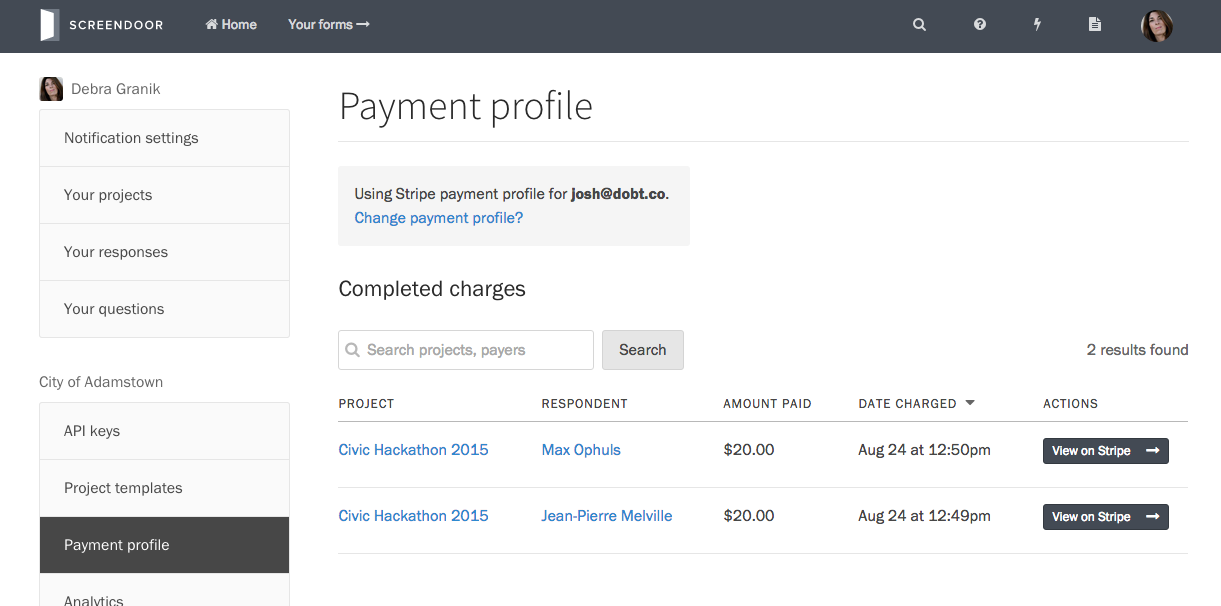
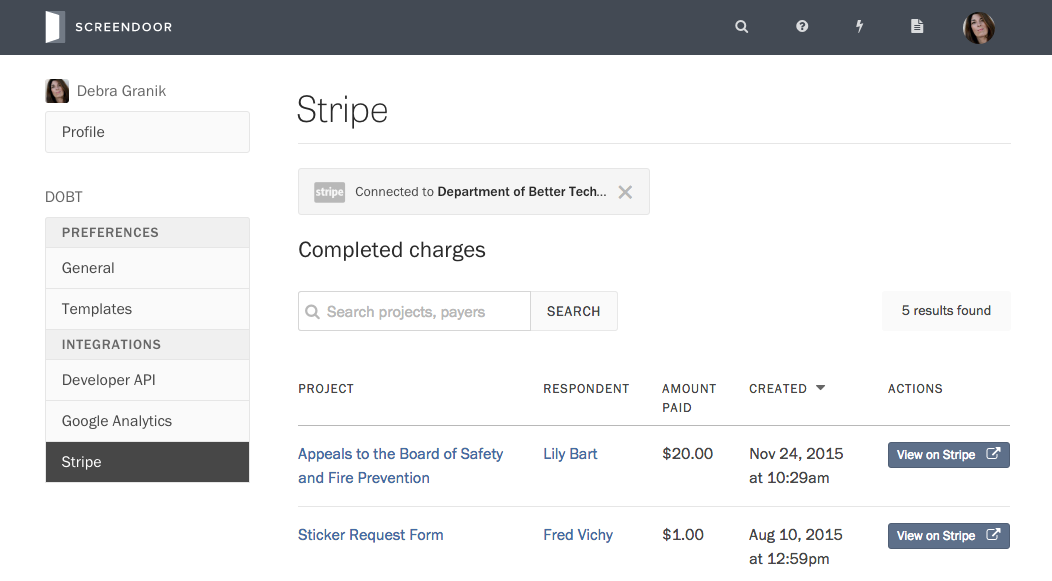
Update payments copy and screenshots

diff --git a/contents/articles/screendoor/your_form/payments.md b/contents/articles/screendoor/your_form/payments.md
@@ -11,14 +11,14 @@ Screendoor lets you charge submission fees for your projects by allowing you to 
 ![Screendoor asking for payment when requesting a submission fee.](../images/payments_1.png)
 
 <div class='alert'>
-    **Note:** You must be an administrator, or have the appropriate [permissions](/articles/your_account/dashboard/managing_users.html#managing-user-permissions), to manage payments for your organization.
+    **Note:** You must be an administrator, or have the appropriate [permissions](/articles/screendoor/your_account/managing_users.html#managing-user-permissions), to manage payments for your organization.
 </div>
 
 ### Getting started
 
 To accept credit card payments, you will first need to [create a Stripe account](https://dashboard.stripe.com/register).
 
-When you have a Stripe account, select the "Edit" link on the right side of the project header, and select "Project Page" in the project wizard. Check the box "Charge a submission fee."
+Once you've set up your Stripe account, select the "Edit" link on the right side of the project header, and select "Project Page" in the project wizard. Check the box "Charge a submission fee."
 
 ![Payment setting on Details page.](../images/payments_2.png)
 
@@ -44,7 +44,7 @@ You can then press the "Connect with Stripe" button to connect to a different St
 
 ### Viewing completed charges
 
-To view completed payments, click your avatar in the navigation bar, select "Settings" in the dropdown, and then select "Payment profile" in the sidebar.
+To view completed payments, click your avatar in the navigation bar, select "Your organization" in the dropdown, and then select "Stripe" in the sidebar.
 
 ![Viewing a list of completed charges.](../images/payments_5.png)
 
